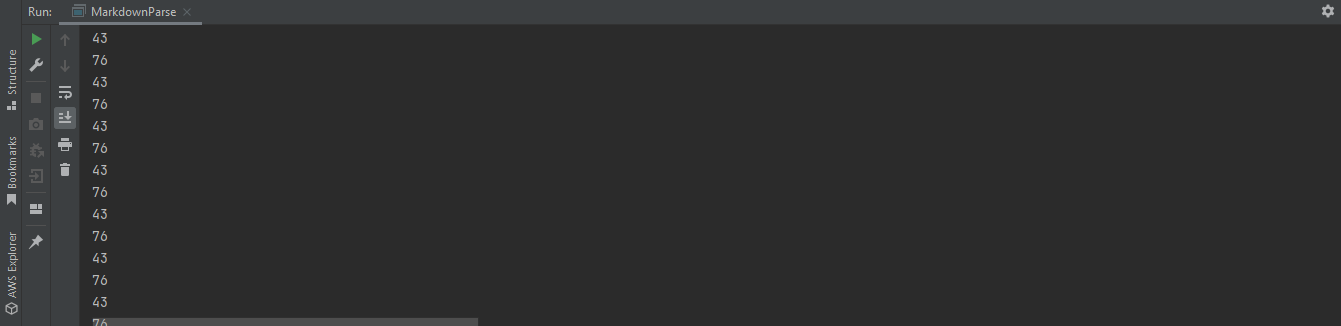
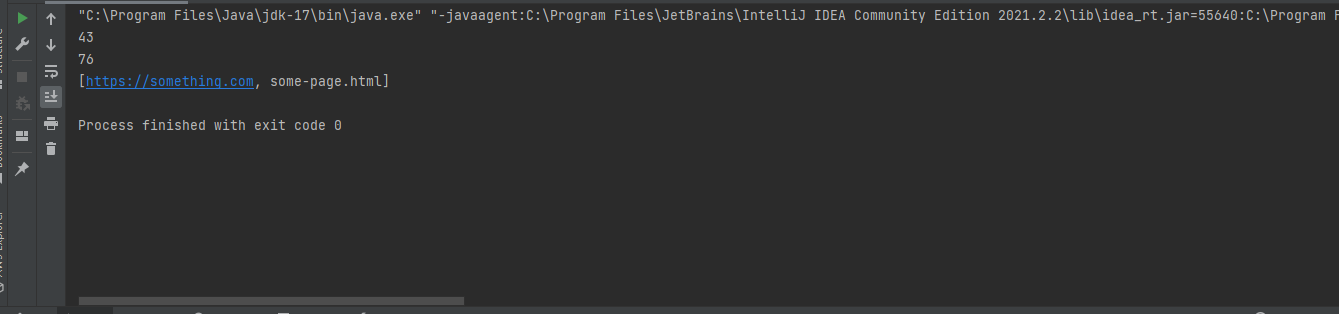
Edit the lab 4 report, add more detailed explanation

diff --git a/lab-4-report/lab-4-report.md b/lab-4-report/lab-4-report.md
@@ -7,15 +7,11 @@
 - [Second code change](#second-code-change)
 - [Third code change](#third-code-change)
 
-## Test file used
-
-We use [this test file](test-file2.md) as the input. This is the test file that create an unexpected outcome and prompt us to make change to our code
-
-This test file is copy from this [original repo](https://github.com/ucsd-cse15l-w22/markdown-parse)
-
 ## First code change
 
 **Initial behavior**: when use this test file as input, the program enter an infinite loop. We must force the program to terminate to exit this loop
+
+**Test file**: we use [this test file](test-file1.md)
 
 **Expected behavior**: the program print out
 
@@ -23,24 +19,26 @@ This test file is copy from this [original repo](https://github.com/ucsd-cse15l-
     [https://something.com, some-page.html]
     ```
 
-**Brief description of the change**: I added a print statement to print out the current index used by the program. This is to track down how the program behave
+**Brief description of the change**: I added check statement to see whether the first search return -1 or not. If it return -1 we shall stop the while loop
 
-![First code change](first-code-change.png)
+![Second code change](first-code-change.png)
 
-**Actual output**: see the loop of "43 76" indefintely
+**Actual output**: actually work, no longer has infinite loop. In fact, this is very close to our expected output
 
-![code output after the first change](first-output.png)
+![code output after the second change](first-output.png)
 
-**Potential reason for problem**: look like our program somehow keep going backward and use the last "link" in our program instead of terminating it. We can first add another statement to our code to ensure that the program keep using the last "link". It probably has something to do with how the `indexOf` works
+**Explanation**: the `indexOf` return -1 if it cannot find the sequence. This will make the caret go backward instead of going forward if we still have some content after the last "link". I fixed this behavior by adding a check on the first search so that, if it cannot find the first parenthesis, it means no more link exist and the program shall stop
 
 ## Second code change
 
-**Initial behavior**: when use this test file as input, the program enter an infinite loop. We must force the program to terminate to exit this loop
+**Initial behavior**: when use this test file as input, the program enter an infinite loop
+
+**Test file**: we use [this test file](test-file2.md)
 
 **Expected behavior**: the program print out
 
     ```bash
-    [https://something.com, some-page.html]
+    null
     ```
 
 **Brief description of the change**: I added check statement to see whether the first search return -1 or not. If it return -1 we shall stop the while loop
@@ -51,18 +49,26 @@ This test file is copy from this [original repo](https://github.com/ucsd-cse15l-
 
 ![code output after the second change](second-output.png)
 
-**Explanation**: the `indexOf` return -1 if it cannot find the sequence. This will make the caret go backward instead of going forward if we still have some content after the last "link". I fixed this behavior by adding a check on the first search so that, if it cannot find the first parenthesis, it means no more link exist and the program shall stop
+**Explanation**: the `indexOf` return -1 if it cannot find the sequence. This will make the caret go backward instead of going forward if we still have some content after the last "link". I fixed this behavior by adding a check on the ALL search so that, if it cannot find the sequence, it means no more link exist and the program shall stop
 
 ## Third code change
 
-**Initial behavior**: when use this test file as input, the program print expected output and some statement we print for debug purpose. We shall remove these debug statement and see whether our program still work or not
+**Initial behavior**: when use this test file as input, the program print out the link of the image, which we don't want
 
-**Brief description of the change**: remove the `println` statement inside `getLinks` method
+**Test file**: we use [this test file](test-file3.md)
+
+**Expected behavior**: the program print out
+
+    ```bash
+    https://hello.com
+    ```
+
+**Brief description of the change**: I use the regular expression
 
 ![Third code change](third-code-change.png)
 
-**Actual output**: actually work, no longer has infinite loop. In fact, this is very close to our expected output
+**Actual output**: work for the sample test 3 [test-file3.md] but fail other test file.
 
 ![code output after the third change](third-output.png)
 
-**Explanation**: not much to say here. But sometimes a debug statement is the difference between a working and a fail program (like in case of race condition)
+**Explanation**: probably have something to do with the way Java handle regular expression, especially with the grouping mechanic. I test this same regular expression with Javascript on [regexr](https://regexr.com/)

diff --git a/lab-4-report/test-file2.md b/lab-4-report/test-file2.md
@@ -1,6 +1,1 @@
-# Title
-
-[a link!](https://something.com)
-[another link!](some-page.html)
-
-some paragraph text after the links
+[Link 3](<https://somet(hi)ng.com>)

diff --git a/lab-4-report/test-file1.md b/lab-4-report/test-file1.md
@@ -1,0 +1,6 @@
+# Title
+
+[a link!](https://something.com)
+[another link!](some-page.html)
+
+some paragraph text after the links

diff --git a/lab-4-report/test-file3.md b/lab-4-report/test-file3.md
@@ -1,0 +1,4 @@
+# title
+
+![link](page.com)
+[hello world](https://hello.com)
